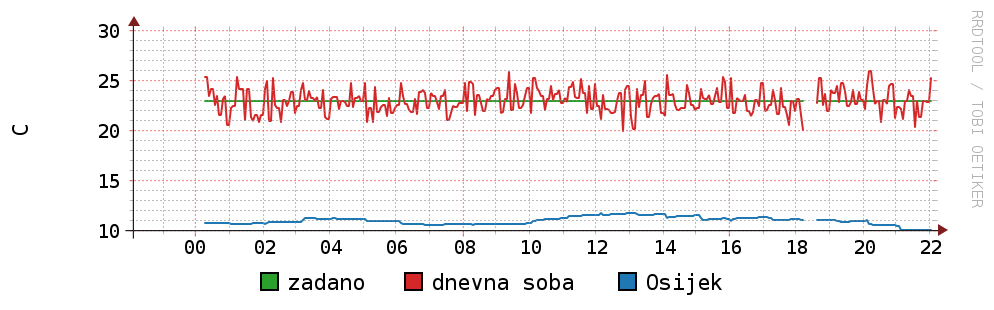
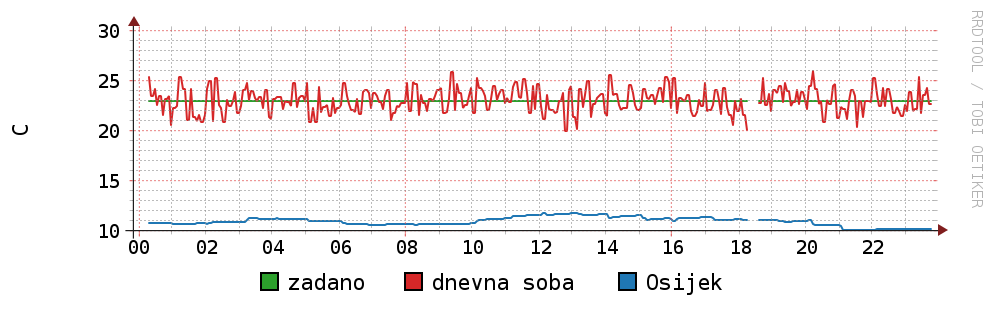
styles, refreshTemps

diff --git a/app/rrdb-tools.js b/app/rrdb-tools.js
@@ -51,8 +51,8 @@ var init = function() {
 }
 
 var defaultTempPreset = 23;
-var getLastTempPreset = function(cb) {
-  console.log("rrdb-tools.getLastTempPreset()");
+var getLastTemps = function(cb) {
+  console.log("rrdb-tools.getLastTemps()");
 
   var lastUpdateStr = "rrdtool lastupdate " + app_dir + "/" + rrd_name;
 
@@ -71,19 +71,19 @@ var getLastTempPreset = function(cb) {
     try {
       var lines = out.replace(/\r\n/g, "\n").split("\n");
       var tabs = lines[2].split(" ");
-      var temp = tabs[1];
-      console.log("parsing result: " + temp);
+      var temps = tabs.splice(0, 1);
+      console.log("parsing result: " + temps);
       if (typeof(cb) == "function") {
-        if (temp == undefined || temp == "undefined") {
-          temp = defaultTempPreset;
+        if (temps == undefined || temps == "undefined") {
+          temps = [defaultTempPreset, 0, 0];
         }
-        cb(temp);
+        cb(temps);
       }
 
     } catch (err) {
       console.log("Parsing error: " + err);
       if (typeof(cb) == "function") {
-        cb(defaultTempPreset);
+        cb([defaultTempPreset, 0, 0]);
       }
     }
   });
@@ -121,9 +121,10 @@ var paint = function(cb) {
     'DEF:mytemp_preset=' + app_dir + "/" + rrd_name + ':temp_preset:AVERAGE ' +
     'DEF:mytemp_living=' + app_dir + "/" + rrd_name + ':temp_living:AVERAGE ' +
     'DEF:mytemp_osijek=' + app_dir + "/" + rrd_name + ':temp_osijek:AVERAGE ' +
+    'LINE:mytemp_osijek#1F77B4:"Osijek" ' +
     'LINE:mytemp_preset#2CA02C:"zadano" ' +
-    'LINE:mytemp_living#D62728:"dnevna soba" ' +
-    'LINE:mytemp_osijek#1F77B4:"Osijek"';
+    'LINE:mytemp_living#D62728:"dnevna soba"';
+    
 
   execute(graphStr, function(out, err) {
     if (err) throw err;
@@ -153,7 +154,7 @@ var getImageName = function() {
 
 
 exports.init = init;
-exports.getLastTempPreset = getLastTempPreset;
+exports.getLastTemps = getLastTemps;
 exports.insert = insert;
 exports.paint = paint;
 exports.getImageName = getImageName;

diff --git a/assets-local/js/myclient.js b/assets-local/js/myclient.js
@@ -1,3 +1,6 @@
+var lastRefreshed = new Date().toLocaleString(); // fresh temp readout or fresh graph
+var dataRefreshInterval;
+
 $('#myonoffswitch').click(function() {
   var state = getSwitchBinaryState();
   var url = document.URL + 'set_heating/' + state;
@@ -31,14 +34,36 @@ var refreshImage = function() {
       $("#temperatures_graph").html($("<img />", {
         src: "assets-local/img/temperatures_graph.png"
       }));
-      $('#log').html('Posljednji puta osvježeno: ' + new Date().toLocaleString());
+      lastRefreshed = new Date().toLocaleString();
       $('#progress').modal('hide');
     } else {
       setTimeout(function() {
         $('#progress').modal('hide');
       }, 500);
-      $('#log').html('Posljednji puta osvježeno: ' + new Date().toLocaleString());
     }
+    $('#log').html('Posljednji puta osvježeno: ' + lastRefreshed);
+  });
+}
+
+var refreshTemps = function() {
+  $('#progress').modal({
+    show: true,
+    keyboard: false,
+    backdrop: true
+  });
+
+  var url = document.URL + 'get_temps';
+  console.log('URL=' + url);
+  $.getJSON(url, function(data) {
+    console.log('/get_temps API response received: ' + data);
+
+    $("#temp_osijek").html(data.temp_osijek);
+    $("#temp_preset").html(data.temp_preset);
+    $("#temp_living").html(data.temp_living);
+
+    lastRefreshed = new Date().toLocaleString();
+    $('#progress').modal('hide');
+    $('#log').html('Posljednji puta osvježeno: ' + lastRefreshed);
   });
 }
 
@@ -50,14 +75,16 @@ var isSwitchOn = function() {
   return $("input#myonoffswitch").is(":checked");
 }
 
-var imgRefreshInterval;
-$(document).ready(function() {
 
+$(document).ready(function() {
   updateSwitchState();
 
   refreshImage();
-  imgRefreshInterval = setInterval(function() {
+  refreshTemps();
+  
+  dataRefreshInterval = setInterval(function() {
     refreshImage();
+    refreshTemps();
   }, 300000); // 300.000 = 300 s = 5 min
 
   $("#temperatures_graph img").click(function() {

diff --git a/app/app.js b/app/app.js
@@ -6,23 +6,30 @@ var rrdb_tools = require('./rrdb-tools');
 
 var app = express();
 
-var inputs = [{
-  pin: '11',
-  gpio: '17',
-  value: 0
-}];
+// var inputs = [{
+//   pin: '11',
+//   gpio: '17',
+//   value: 0
+// }];
+
+var last_temp_preset = 0;
+var last_temp_living = 0;
+var last_temp_osijek = 0;
+
 
 app.configure(function() {
   app.use(express.favicon());
   app.use(express['static'](__dirname + '/../'));
 
-  gpio_tools.init(inputs[0].pin);
+  // gpio_tools.init(inputs[0].pin);
 
   rrdb_tools.init();
 
   initTimers();
-  rrdb_tools.getLastTempPreset(function(value) {
-    last_temp_preset = value;
+  rrdb_tools.getLastTemps(function(data) {
+    last_temp_preset = data.temp_preset;
+    last_temp_living = data.temp_living;
+    last_temp_osijek = data.temp_osijek;
   });
 });
 
@@ -51,14 +58,15 @@ app.get('/get_heating', function(req, res) {
   // });
 });
 
-app.get('/get_temp_preset', function(req, res) {
-  console.log('/get_temp_preset');
+app.get('/get_temps', function(req, res) {
+  console.log('/get_temps');
 
-  gpio_tools.getValue(function(value) {
-    inputs[0].value = value;
-    console.log('inputs[0].value=' + inputs[0].value);
-    res.send(inputs[0]);
-  });
+  var temps = {
+    "temp_preset": last_temp_preset,
+    "temp_living": last_temp_living,
+    "temp_osijek": last_temp_osijek
+  };
+  res.send(temps);
 });
 
 app.get('/refresh_image', function(req, res) {
@@ -108,10 +116,6 @@ function initTimers() {
     collectAndRecordCurrTemps();
   }, 120000); // 120.000 = 2 min
 }
-
-var last_temp_preset = 0;
-var last_temp_living = 0;
-var last_temp_osijek = 0;
 
 function collectAndRegulateTemp() {
   console.log('collectAndRegulateTemp()');

diff --git a/assets-local/css/local.css b/assets-local/css/local.css
@@ -1,17 +1,55 @@
 html,
 body {
   height: 100%;
-  background-color: #fff;
+  /*background-color: #fff;*/
+  background-color: #FAFAFA;
+
 }
 
 #temperatures_graph {
   margin: 30px 0;
+  background-color: #fff;
+  -webkit-box-shadow: 0 2px 2px rgba(0,0,0,.4), inset 0 1px rgba(255,255,255,.75);
+  -moz-box-shadow: 0 2px 2px rgba(0,0,0,.4), inset 0 1px rgba(255,255,255,.75);
+  box-shadow: 0 2px 2px rgba(0,0,0,.4), inset 0 1px rgba(255,255,255,.75);
 }
 
 #temperatures_graph img {
   width: 100%;
   height: auto;
   cursor: pointer;
+}
+.col-md-4 {
+  margin: 35px 0;
+  color: #ccc;
+  text-align: center;
+  font-size: 1.5em;
+  line-height: 1.5em;
+  white-space: nowrap;
+}
+
+.temp_readout {
+  text-shadow: 0 2px 4px rgba(0, 0, 0, 0.6), 0 -1px 1px #fff;
+  font-size: 3em;
+  line-height: 1.5em;
+  text-align: center;
+  /*background-color: #fff;
+  -webkit-box-shadow: 0 2px 2px rgba(0,0,0,.4), inset 0 1px rgba(255,255,255,.75);
+  -moz-box-shadow: 0 2px 2px rgba(0,0,0,.4), inset 0 1px rgba(255,255,255,.75);
+  box-shadow: 0 2px 2px rgba(0,0,0,.4), inset 0 1px rgba(255,255,255,.75);*/
+}
+.temp_readout a {
+  text-shadow: none;
+  margin-bottom: 10px;
+}
+.temp_osijek {
+  color: #1F77B4;
+}
+.temp_preset {
+  color: #2CA02C;
+}
+.temp_living {
+  color: #D62728;
 }
 
 #progress {
@@ -58,8 +96,9 @@ body {
 }
 
 .onoffswitch {
-  margin-top: 30px;
   display: block;
-  margin-left: auto;
-  margin-right: auto;
+  margin: 40px auto;
+  -webkit-box-shadow: 0 2px 2px rgba(0,0,0,.4), inset 0 1px rgba(255,255,255,.75);
+  -moz-box-shadow: 0 2px 2px rgba(0,0,0,.4), inset 0 1px rgba(255,255,255,.75);
+  box-shadow: 0 2px 2px rgba(0,0,0,.4), inset 0 1px rgba(255,255,255,.75);
 }

diff --git a/index.html b/index.html
@@ -40,17 +40,30 @@
         <img src="assets-local/img/temperatures_graph.png" />
       </div>
       <div class="row">
-        <div class="col-md-4">.col-md-4</div>
-        <div class="col-md-4">.col-md-4</div>
         <div class="col-md-4">
-          .col-md-4
-          <a class="btn btn-default" href="#">+ 1&deg;C</a>
-          <a class="btn btn-default" href="#">- 1&deg;C</a>
+          Osijek:
+          <div class="temp_readout temp_osijek">
+            <span id="temp_osijek">11</span>&deg;C
+          </div>
+        </div>
+        <div class="col-md-4">
+          zadano:
+          <div class="temp_readout temp_preset">
+            <a class="btn btn-default" href="#">- 1&deg;C</a>
+            <span id="temp_preset">24</span>&deg;C
+            <a class="btn btn-default" href="#">+ 1&deg;C</a>
+          </div>
+        </div>
+        <div class="col-md-4">
+          dnevna:
+          <div class="temp_readout temp_living">
+            <span id="temp_living">23</span>&deg;C
+          </div>
         </div>
       </div>
       <div class="row">
         <div class="onoffswitch">
-          <input type="checkbox" name="onoffswitch" class="onoffswitch-checkbox" id="myonoffswitch">
+          <input type="checkbox" name="onoffswitch" class="onoffswitch-checkbox" id="myonoffswitch" checked="checked">
           <label class="onoffswitch-label" for="myonoffswitch">
             <div class="onoffswitch-inner">
               <div class="onoffswitch-active">
